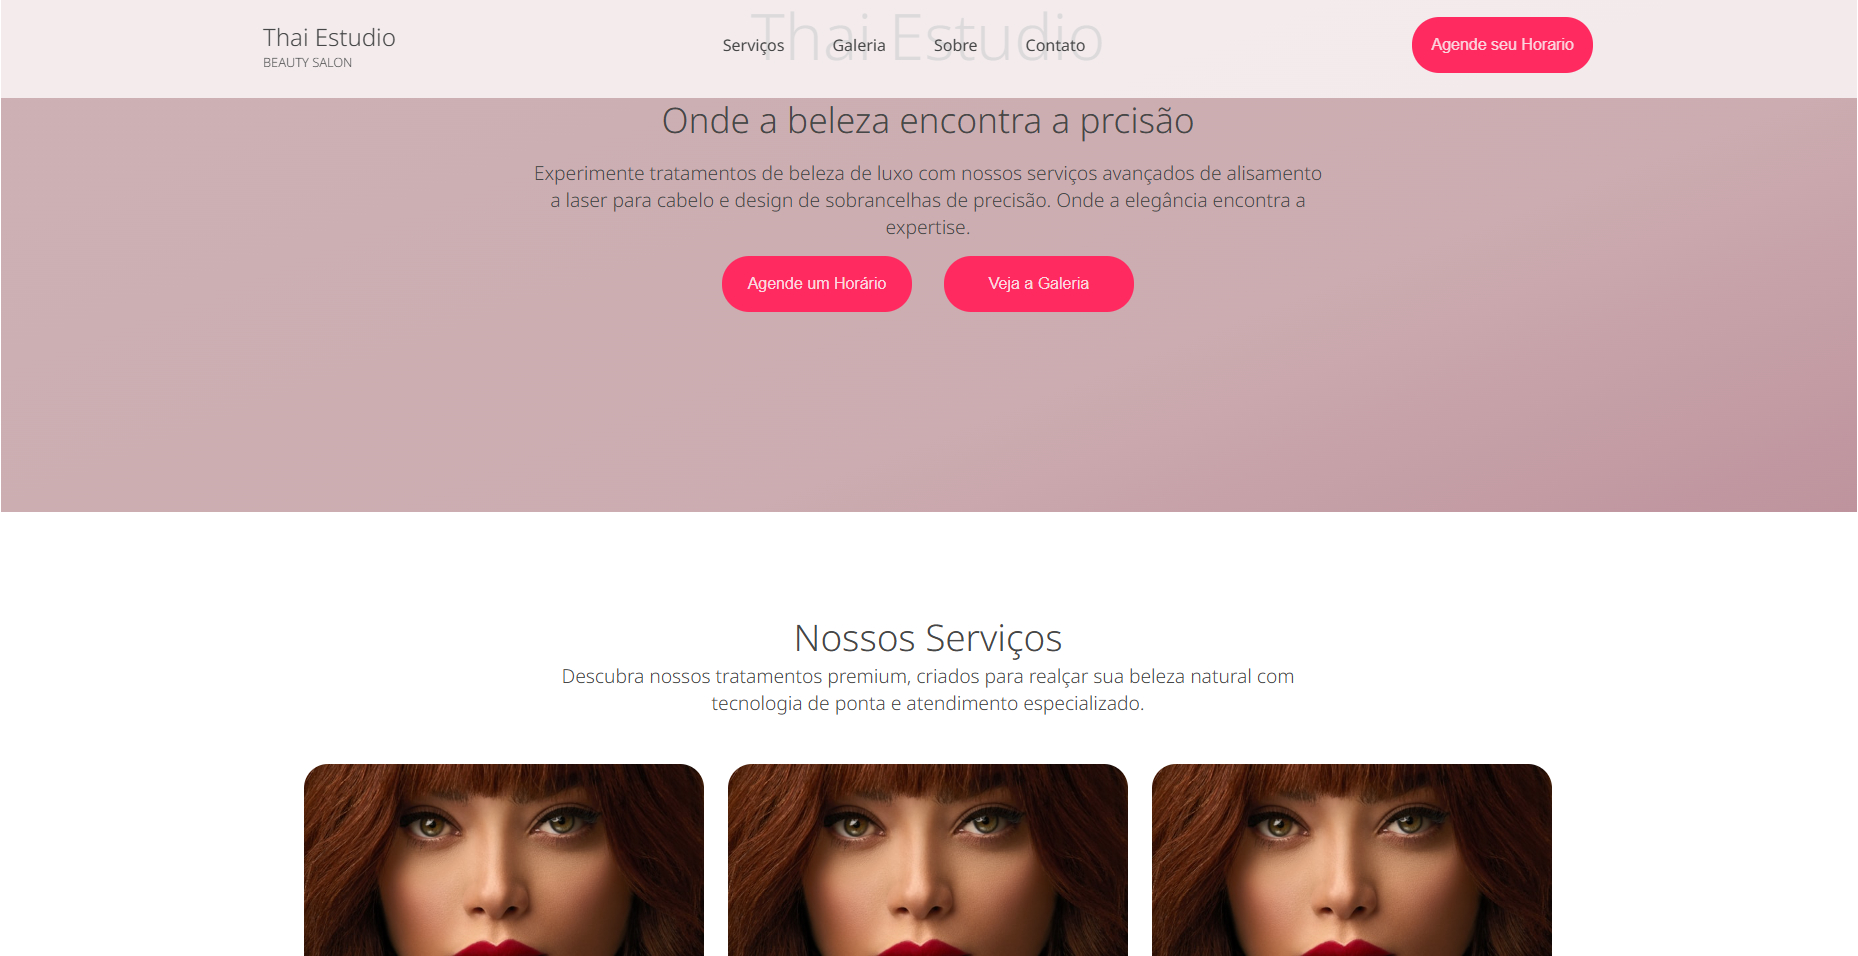
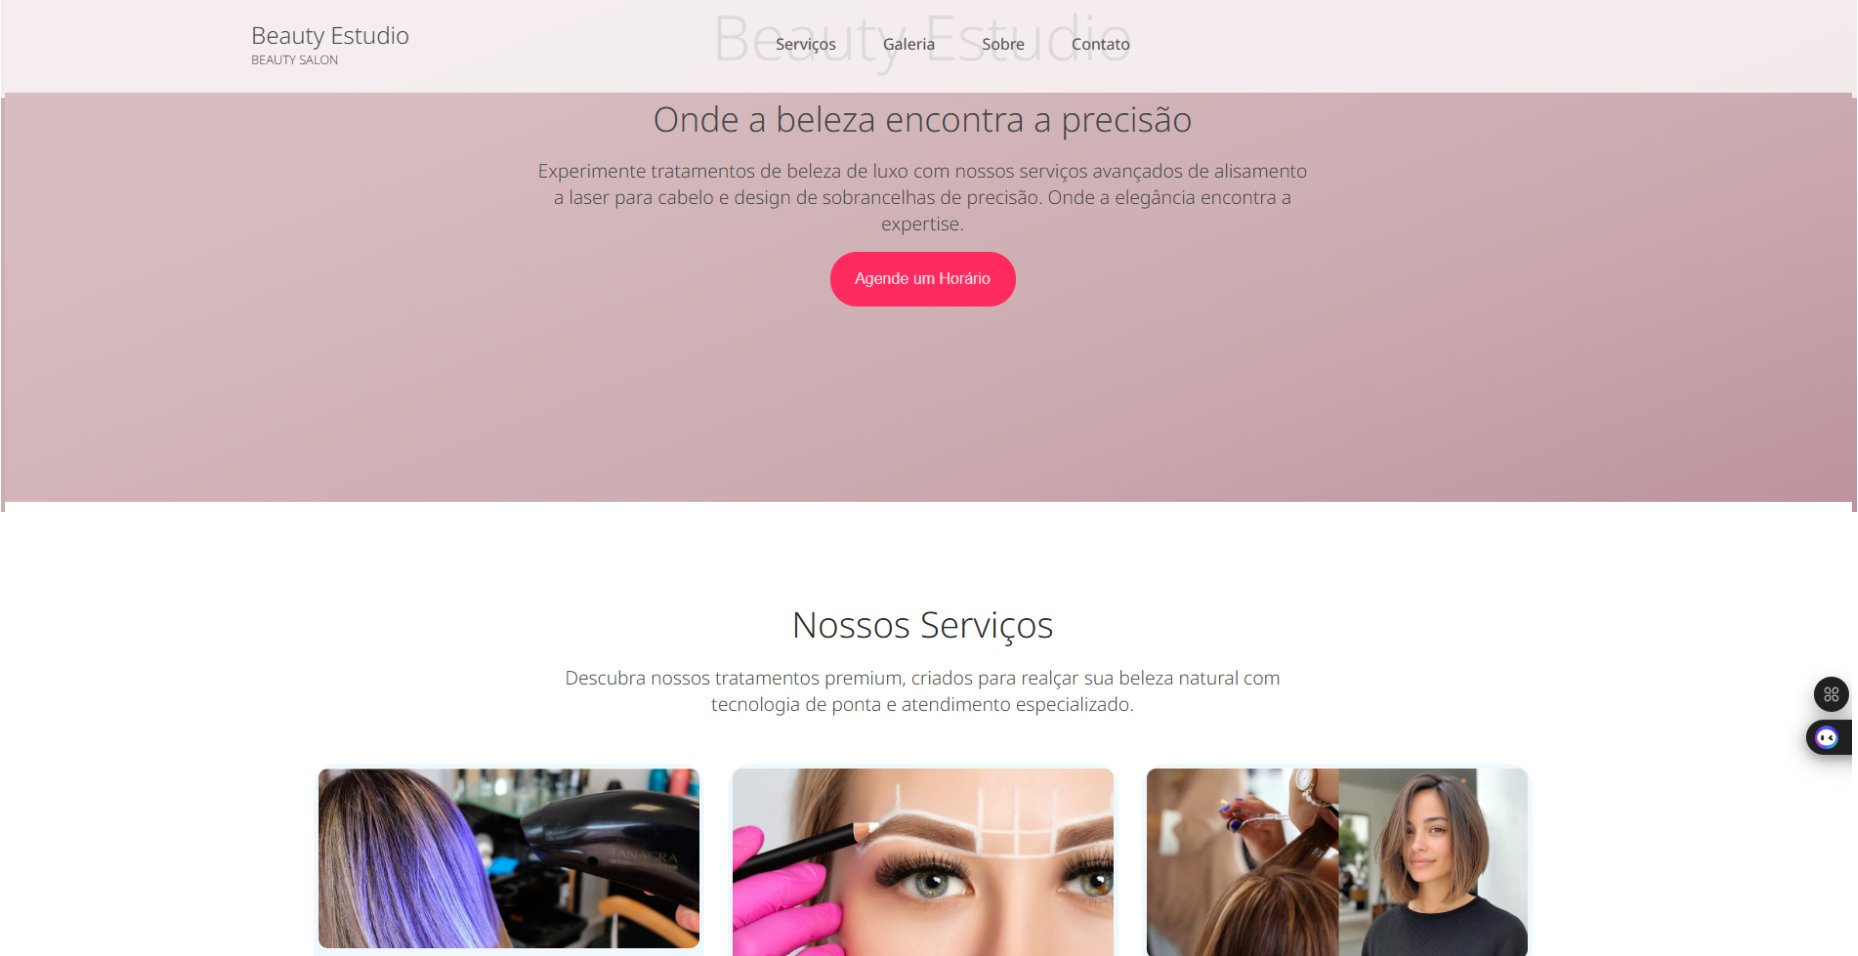
Atualização da iimagem e descrição do projeto beauty saloon

diff --git a/js/script.js b/js/script.js
@@ -114,10 +114,10 @@ function showInfoProjs(valorP){
         case p8: //Beauty Saloon
         textInfo.innerHTML = `
         <strong>Sobre</strong></br>
-        Projeto pessoal de uma página ficticia para um salão de beleza. <br>
-        Pagina em desenvolvimento... <br>
+        Projeto pessoal de uma landingpage para salão de beleza. <br>
+        Pagina criada para meu portfolio de projetos freelancer. <br>
         <strong>Tecnologias utilizadas:</strong> </br>
-        HTML, CSS, Typescript, React e Node.`;
+        HTML, CSS, Typescript, React, Framer e Node.`;
         imgSite.style.backgroundImage = "url('/img/img-beauty.jpg')"
         linkPage.href = 'https://beauty-salloon-teste.netlify.app'
 		break
